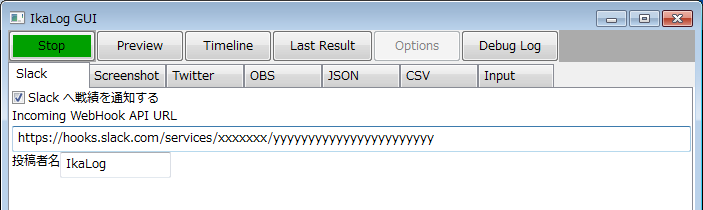
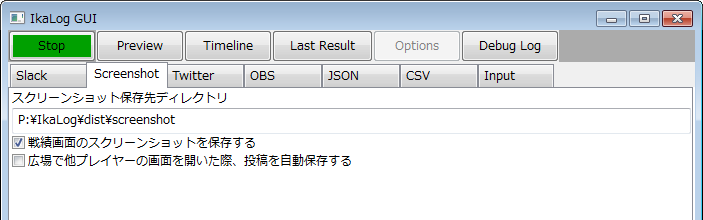
docs: Updated

diff --git a/doc/IkaUI.md b/doc/IkaUI.md
@@ -12,6 +12,22 @@ IkaLog は <https://github.com/hasegaw/IkaLog> にてホストされている
 IkaLog GUI 版 (IkaUI) は IkaLog をウインドウアプリとして動くように
 したバージョンです。
 
+## IkaLog って何ができるの
+
+任天堂の WiiU 用ソフト「スプラトゥーン」の画面をリアルタイム解析して、
+いろいろなことができるソフトです。
+
+- 勝ち／負け、ステージ、ルールを時系列にログファイルへ蓄積
+- マッチ終了時のスクリーンショットを保存
+- Twitter, Slack にプレイ状況をリアルタイム投稿
+- アマレコTV, OBS などの録画ソフトの録画開始・停止を自動制御、ファイルをリネーム
+
+※CLI版ではほかに下記の機能があります
+
+- Fluentd 連携 (データベースやWebサービスに戦績を投稿)
+- Hue (Phillips製フルカラーLED電球)にチーム色を設定
+- etc...
+
 ## IkaLog の入手方法
 
 公開 URL からファイルをダウンロードします。最新版はこちら:
@@ -76,6 +92,7 @@ IkaLog ウインドウの Options ボタンをクリックします。
 - Input: 入力ソースを選ぶ
 - CSV: ログファイル出力有効化
 - JSON: ログファイル出力有効化
+- Screenshot: スクリーンショット保存の有効化
 
 具体的な設定方法は本ページの「設定」セクションをご覧ください。
 
@@ -122,6 +139,24 @@ Read from pre-recorded video file (for testing)
 指定された動画ファイルを入力ソースとして利用できます。
 普段使うことはないかと思いますが、
 ガチヤグラ／ホコのグラフを書いたりするときに使えるかもしれません。
+
+### Screenshot ()スクリーンショット保存の設定)
+
+![Screenshot](images/IkaUI_Screenshot.png)
+
+マッチ終了時に自動的に戦績画面（K/Dが表示されている画面）のスクリーンショットを
+保存します。
+
+##### 設定方法
+
+- 必要に応じてスクリーンショットの保存先ディレクトリを指定してください。
+
+- CSV/JSON タブの保存先ファイルを設定してください。
+- 戦績画面のスクリーンショットを保存する をチェックしてください。
+- Miiverse 投稿の保存機能はチェックしても動作しません（未実装です）
+
+上記操作により、マッチ終了時にファイルが追記されていくようになります。
+
 
 ### CSV, JSON 出力の設定
 

diff --git a/README.md b/README.md
@@ -3,8 +3,8 @@
 ![IkaLog](doc/images/IkaUI.png)
 
 GUIバージョンの入手と使い方は下記ドキュメントを確認してください。
-<https://github.com/hasegaw/IkaLog/blob/master/doc/IkaUI.md>
+  <https://github.com/hasegaw/IkaLog/blob/master/doc/IkaUI.md>
 
 py2exe 済みの配布物ではなくレポジトリ上のコードを動かしたりしたい場合は
 下記ファイルの内容を確認してください。
-<https://github.com/hasegaw/IkaLog/blob/master/INSTALL>
+  <https://github.com/hasegaw/IkaLog/blob/master/INSTALL>
